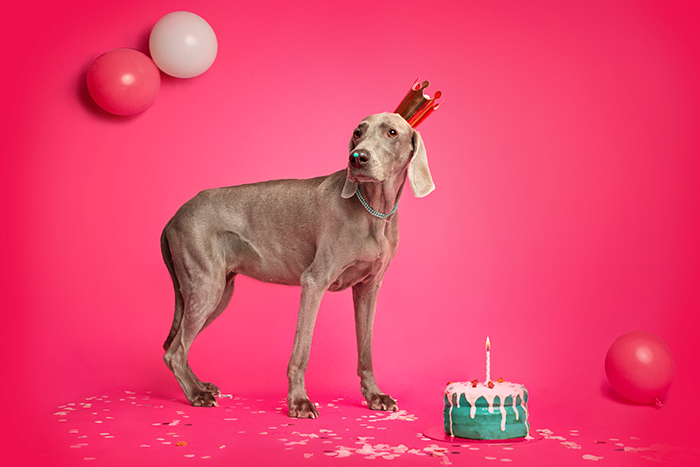
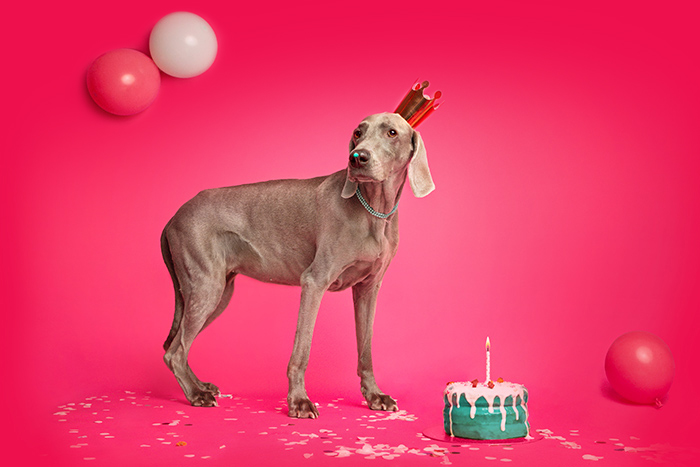
contact photo in the pink rect added

Changed region(s): [[0.06, 0.0, 0.96, 0.3597]]

diff --git a/public/styles.css b/public/styles.css
@@ -1256,7 +1256,48 @@ footer {
   }
 }
 
+@media (max-width: 678px) {
+  .social-content {
+    flex-direction: column;
+  }
+
+  .social-icon {
+    padding: 0 0 0 20px;
+  }
+
+  .social-text {
+    padding: 0;
+  }
+
+  .social-image {
+    width: 100%;
+    height: 150px;
+    margin-left: 0;
+    margin-top: 0;
+  }
+}
+
 @media (max-width: 768px) {
+  .social-content {
+    padding-bottom: 0 !important;
+  }
+
+  .social-icon {
+    margin-right: 0 !important;
+    padding: 0 !important;
+    margin-left: 0 !important;
+  }
+
+  .social-text {
+    padding: 0 !important;
+  }
+
+  .social-image {
+    width: 280px;
+    height: auto;
+    margin-left: 10px;
+  }
+
   .btn-link {
     display: inline-block;
     margin-left: 50%;
@@ -1853,30 +1894,33 @@ footer {
 .social-content {
   display: flex;
   align-items: center;
-  gap: 25px;
+  gap: 0;
   max-width: 1200px;
   margin: 0 auto;
   color: #000;
-  justify-content: space-between;
-  background: #eb4c74;
-  padding: 25px 30px;
+  background: #fb5484;
   border-radius: 20px;
+  overflow: hidden;
 }
 
 .social-image {
-  flex-shrink: 0;
-  width: 120px;
-  height: 120px;
+  flex: 0 0 auto;
+  width: 200px;
+  height: 100%;
+  margin-left: 40px;
+  padding-right: 40px;
 }
 
 .social-pet-img {
   width: 100%;
   height: 100%;
-  object-fit: contain;
+  object-fit: cover;
 }
 
 .social-icon {
   flex-shrink: 0;
+  padding: 25px 0 25px 30px;
+  margin-right: 40px;
 }
 
 .social-icon img {
@@ -1887,6 +1931,7 @@ footer {
 
 .social-text {
   flex: 1;
+  padding: 25px 30px 25px 0;
 }
 
 .social-text h2 {
@@ -1905,25 +1950,30 @@ footer {
 }
 
 .social-link {
-  background-color: #fff;
-  color: #eb4c74;
-  padding: 10px 20px;
-  border-radius: 25px;
+  background-color: #39a291;
+  color: #fff;
+  padding: 8px 14px;
+  border-radius: 15px;
   text-decoration: none;
-  font-weight: 500;
+  font-weight: 400;
   font-family: 'Inter', sans-serif;
-  font-size: 0.9rem;
+  font-size: 0.85rem;
   transition: all 0.3s;
   display: inline-flex;
   align-items: center;
-  gap: 8px;
+  gap: 6px;
   flex-shrink: 0;
+  margin-top: 10px;
+  height: fit-content;
+  line-height: 1;
 }
 
 .social-link .social-icon {
-  width: 24px;
-  height: 24px;
+  width: 25px;
+  height: 25px;
+  padding: 0;
   object-fit: contain;
+  filter: brightness(0) invert(1);
 }
 
 .social-link:hover {
@@ -4935,8 +4985,8 @@ footer {
 
 .cta-button {
   display: inline-block;
-  background-color: #fff;
-  color: #000;
+  background-color: #39a291;
+  color: #fff;
   padding: 12px 30px;
   border-radius: 25px;
   text-decoration: none;
@@ -4944,7 +4994,7 @@ footer {
   font-family: 'Inter', sans-serif;
   font-size: 0.9rem;
   transition: all 0.3s;
-  border: 2px solid #fff;
+  border: 2px solid #39a291;
 }
 
 .cta-button:hover {